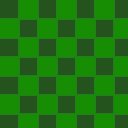
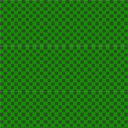
マップが無限になった

diff --git a/Solution/App/AppStage.cpp b/Solution/App/AppStage.cpp
@@ -26,6 +26,8 @@ void AppStage::update( ) {
 
 void AppStage::draw( ) const {
 	drawModel( );
+	drawEarth( );
+	drawWall( );
 }
 
 void AppStage::load( int stage_num ) {
@@ -150,6 +152,20 @@ Vector AppStage::adjustCollisionToWall( Vector pos, Vector vec, const double rad
 
 	double x = pos.x + vec.x;
 	double y = pos.y + vec.y;
+	if ( x < 0 ) {
+		x += STAGE_WIDTH_NUM * WORLD_SCALE;
+	}
+	if ( x > STAGE_WIDTH_NUM * WORLD_SCALE ) {
+		x -= STAGE_WIDTH_NUM * WORLD_SCALE;
+	}
+	if ( y < 0 ) {
+		y += STAGE_HEIGHT_NUM * WORLD_SCALE;
+
+	}
+	if ( y > STAGE_HEIGHT_NUM * WORLD_SCALE ) {
+		y -= STAGE_HEIGHT_NUM * WORLD_SCALE;
+
+	}
 	for ( int i = 0; i < 2; i++ ) {
 		double rad = radius;
 		if ( i == 0 ) {
@@ -164,13 +180,13 @@ Vector AppStage::adjustCollisionToWall( Vector pos, Vector vec, const double rad
 		int tmp_y = (int)( pos.y + vec.y + dir.y );
 		int idx = tmp_x + tmp_y * STAGE_WIDTH_NUM * 2;
 		if ( idx_x < 0 || idx_x >= STAGE_WIDTH_NUM * 2 * STAGE_HEIGHT_NUM * 2 ) {
-				return Vector( );
+				return result;
 		}
 		if ( idx_y < 0 || idx_y >= STAGE_WIDTH_NUM * 2 * STAGE_HEIGHT_NUM * 2 ) {
-				return Vector( );
+				return result;
 		}
 		if ( idx < 0 || idx >= STAGE_WIDTH_NUM * 2 * STAGE_HEIGHT_NUM * 2 ) {
-				return Vector( );
+				return result;
 		}
 		switch ( _map_data[ idx_x ] ) {
 		case 1:
@@ -311,19 +327,21 @@ void AppStage::loadMapData( ) {
 			int tmp_x = x * 2 + j % 2;
 			int tmp_y = y * 2 + j / 2;
 			int map_idx = tmp_x % ( STAGE_WIDTH_NUM * 2 ) + tmp_y * STAGE_WIDTH_NUM * 2;
-			if ( x + OFFSET_X[ j ] < 0 ||
-				 x + OFFSET_X[ j ] >= STAGE_WIDTH_NUM ) {
-				_map_data[ map_idx ] = 1;
-				continue;
-			}
-			if ( y + OFFSET_Y[ j ] < 0 ||
-				 y + OFFSET_Y[ j ] >= STAGE_HEIGHT_NUM ) {
-				_map_data[ map_idx ] = 1;
-				continue;
-			}
-
 			int idx0 = i + OFFSET_X[ j ];
 			int idx1 = i + OFFSET_Y[ j ] * STAGE_WIDTH_NUM;
+			if ( x + OFFSET_X[ j ] < 0 ) {
+				idx0 += STAGE_WIDTH_NUM;
+			}
+			if ( x + OFFSET_X[ j ] >= STAGE_WIDTH_NUM ) {
+				idx0 -= STAGE_WIDTH_NUM;
+			}
+			if ( y + OFFSET_Y[ j ] < 0 ) {
+				idx1 += STAGE_WIDTH_NUM * STAGE_HEIGHT_NUM;
+			}
+			if ( y + OFFSET_Y[ j ] >= STAGE_HEIGHT_NUM ) {
+				idx1 -= STAGE_WIDTH_NUM * STAGE_HEIGHT_NUM;
+			}
+
 
 			if ( type == 1 ) {
 				_map_data[ map_idx ] = 1;
@@ -369,4 +387,50 @@ int AppStage::getStationNum( ) const {
 
 std::list< CrystalPtr > AppStage::getCrystalList( ) const {
 	return _crystals;
+}
+
+void AppStage::drawEarth( ) const {
+	DrawerPtr drawer = Drawer::getTask( );
+	Vector pos[ 9 ] = {
+		Vector( 0, 0, 0 ),
+		Vector( STAGE_WIDTH_NUM * WORLD_SCALE, 0, 0 ),
+		Vector( STAGE_WIDTH_NUM * WORLD_SCALE, STAGE_HEIGHT_NUM * WORLD_SCALE, 0 ),
+		Vector( STAGE_WIDTH_NUM * WORLD_SCALE, -STAGE_HEIGHT_NUM * WORLD_SCALE, 0 ),
+		Vector( -STAGE_WIDTH_NUM * WORLD_SCALE, 0, 0 ),
+		Vector( -STAGE_WIDTH_NUM * WORLD_SCALE, STAGE_HEIGHT_NUM * WORLD_SCALE, 0 ),
+		Vector( -STAGE_WIDTH_NUM * WORLD_SCALE, -STAGE_HEIGHT_NUM * WORLD_SCALE, 0 ),
+		Vector( 0,  STAGE_HEIGHT_NUM * WORLD_SCALE, 0 ),
+		Vector( 0,  -STAGE_HEIGHT_NUM * WORLD_SCALE, 0 ),
+	};
+	for ( int i = 0; i < 9; i++ ) {
+		int x = i % STAGE_WIDTH_NUM;
+		int y = i / STAGE_WIDTH_NUM;
+		Vector adjust_pos = Vector( WORLD_SCALE + WORLD_SCALE / 2, WORLD_SCALE + WORLD_SCALE / 3 );
+		drawer->setModelMDL( Drawer::ModelMDL( pos[ i ] + adjust_pos, MDL_EARTH ) );
+	}
+}
+
+void AppStage::drawWall( ) const {
+	Vector pos[ 9 ] = {
+		Vector( 0, 0, 0 ),
+		Vector( STAGE_WIDTH_NUM * WORLD_SCALE, 0, 0 ),
+		Vector( STAGE_WIDTH_NUM * WORLD_SCALE, STAGE_HEIGHT_NUM * WORLD_SCALE, 0 ),
+		Vector( STAGE_WIDTH_NUM * WORLD_SCALE, -STAGE_HEIGHT_NUM * WORLD_SCALE, 0 ),
+		Vector( -STAGE_WIDTH_NUM * WORLD_SCALE, 0, 0 ),
+		Vector( -STAGE_WIDTH_NUM * WORLD_SCALE, STAGE_HEIGHT_NUM * WORLD_SCALE, 0 ),
+		Vector( -STAGE_WIDTH_NUM * WORLD_SCALE, -STAGE_HEIGHT_NUM * WORLD_SCALE, 0 ),
+		Vector( 0,  STAGE_HEIGHT_NUM * WORLD_SCALE, 0 ),
+		Vector( 0,  -STAGE_HEIGHT_NUM * WORLD_SCALE, 0 ),
+	};
+	DrawerPtr drawer = Drawer::getTask( );
+	std::vector< Drawer::ModelMDL > walls = getWalls( );
+	std::vector< Drawer::ModelMDL >::const_iterator ite = walls.begin( );
+	while ( ite != walls.end( ) ) {
+		Drawer::ModelMDL model = (*ite);
+		for ( int i = 0; i < 9; i++ ) {
+			model.pos += pos[ i ];
+			drawer->setModelMDL( model );
+		}
+		ite++;
+	}
 }

diff --git a/Solution/Common/Stage.cpp b/Solution/Common/Stage.cpp
@@ -13,13 +13,8 @@ Stage::Stage( ) {
 Stage::~Stage( ) {
 }
 
-void Stage::update( ) {
-}
-
 void Stage::drawModel( ) const {
 	drawBackground( );
-	drawEarth( );
-	drawWall( );
 	drawCrystal( );
 	drawStation( );
 }
@@ -55,22 +50,6 @@ void Stage::drawBackground( ) const {
 	drawer->setModelMDL( Drawer::ModelMDL( Vector( ), MDL_BG ) );
 }
 
-void Stage::drawEarth( ) const {
-	DrawerPtr drawer = Drawer::getTask( );
-	for ( int i = 0; i < STAGE_WIDTH_NUM * STAGE_HEIGHT_NUM; i++ ) {
-		drawer->setModelMDL( _earth[ i ] );
-	}
-}
-
-void Stage::drawWall( ) const {
-	DrawerPtr drawer = Drawer::getTask( );
-	std::vector< Drawer::ModelMDL >::const_iterator ite = _walls.begin( );
-	while ( ite != _walls.end( ) ) {
-		drawer->setModelMDL( (*ite) );
-		ite++;
-	}
-}
-
 void Stage::drawCrystal( ) const {
 }
 
@@ -84,16 +63,6 @@ void Stage::drawStation( ) const {
 			Drawer::ModelMDL model( Vector( x, y, 0 ), mdl );
 			drawer->setModelMDL( model );
 		}
-	}
-}
-
-void Stage::loadEarth( ) {
-	for ( int i = 0; i < STAGE_WIDTH_NUM * STAGE_HEIGHT_NUM; i++ ) {
-		int x = i % STAGE_WIDTH_NUM;
-		int y = i / STAGE_WIDTH_NUM;
-		Vector pos( x * WORLD_SCALE + WORLD_SCALE / 2, y * WORLD_SCALE + WORLD_SCALE / 2, 0 );
-		Vector adjust_pos = Vector( WORLD_SCALE + WORLD_SCALE / 2, WORLD_SCALE + WORLD_SCALE / 3 );
-		_earth[ i ] = Drawer::ModelMDL( pos + adjust_pos, MDL_EARTH );
 	}
 }
 
@@ -120,7 +89,17 @@ void Stage::loadWall( ) {
 		Vector( 0, 0 ),
 		Vector( -WORLD_SCALE / 8, -WORLD_SCALE / 2 )
 	};
-	_walls.clear( );
+	Vector copy_pos[ 9 ] = {
+		Vector( 0, 0, 0 ),
+		Vector( STAGE_WIDTH_NUM * WORLD_SCALE, 0, 0 ),
+		Vector( STAGE_WIDTH_NUM * WORLD_SCALE, STAGE_HEIGHT_NUM * WORLD_SCALE, 0 ),
+		Vector( STAGE_WIDTH_NUM * WORLD_SCALE, -STAGE_HEIGHT_NUM * WORLD_SCALE, 0 ),
+		Vector( -STAGE_WIDTH_NUM * WORLD_SCALE, 0, 0 ),
+		Vector( -STAGE_WIDTH_NUM * WORLD_SCALE, STAGE_HEIGHT_NUM * WORLD_SCALE, 0 ),
+		Vector( -STAGE_WIDTH_NUM * WORLD_SCALE, -STAGE_HEIGHT_NUM * WORLD_SCALE, 0 ),
+		Vector( 0,  STAGE_HEIGHT_NUM * WORLD_SCALE, 0 ),
+		Vector( 0,  -STAGE_HEIGHT_NUM * WORLD_SCALE, 0 ),
+	};
 
 	for ( int i = 0; i < 16; i++ ) {
 		int tmp = 1;
@@ -220,7 +199,6 @@ bool Stage::isFinished( ) const {
 void Stage::reset( ) {
 	_phase = -1;
 	_finished = false;
-	loadEarth( );
 	loadWall( );
 	loadPhase( );
 }
@@ -254,4 +232,9 @@ void Stage::debug( ) {
 
 int Stage::getMaxStationNum( ) const {
 	return _max_station;
+}
+
+
+std::vector< Drawer::ModelMDL > Stage::getWalls( ) const {
+	return _walls;
 }

diff --git a/Solution/App/SceneStage.cpp b/Solution/App/SceneStage.cpp
@@ -49,9 +49,10 @@ _state( STATE_NORMAL ) {
 	
 	Matrix roomba_size = Matrix::makeTransformScaling( Vector( WORLD_SCALE * ROOMBA_SCALE, WORLD_SCALE * ROOMBA_SCALE, WORLD_SCALE * ROOMBA_SCALE ) );
 	drawer->loadMDLModel( MDL_BALL, "Model/Roomba/roomba.mdl", "Model/Roomba/texture.jpg", roomba_size );
-	Matrix stage_size = Matrix::makeTransformScaling( Vector( WORLD_SCALE / STAGE_MODEL_SIZE, WORLD_SCALE / STAGE_MODEL_SIZE, WORLD_SCALE / STAGE_MODEL_SIZE ) );
 	
-	drawer->loadMDLModel( MDL_EARTH, "Model/Stage/earth.mdl", "Model/Stage/earth.jpg", stage_size );
+	Matrix earth_size = Matrix::makeTransformScaling( Vector( WORLD_SCALE / STAGE_MODEL_SIZE * STAGE_WIDTH_NUM, WORLD_SCALE / STAGE_MODEL_SIZE * STAGE_HEIGHT_NUM, WORLD_SCALE / STAGE_MODEL_SIZE ) );
+	drawer->loadMDLModel( MDL_EARTH, "Model/Stage/earth.mdl", "Model/Stage/earth.jpg", earth_size );
+	Matrix stage_size = Matrix::makeTransformScaling( Vector( WORLD_SCALE / STAGE_MODEL_SIZE, WORLD_SCALE / STAGE_MODEL_SIZE, WORLD_SCALE / STAGE_MODEL_SIZE ) );
 
 	drawer->loadMDLModel( MDL_WALL_0_0 , "Model/Stage/0_0.mdl" , "Model/Stage/wall.jpg", stage_size );
 	drawer->loadMDLModel( MDL_WALL_0_1 , "Model/Stage/0_1.mdl" , "Model/Stage/wall.jpg", stage_size );
@@ -97,11 +98,11 @@ Scene::NEXT SceneStage::update( ) {
 		_roomba->update( _stage, _camera );
 		_stage->update( );
 		_camera->update( );
-		_timer->update( );
+		//_timer->update( );
 	
 		if ( _timer->isTimeOver( ) ) {
 			//_state = STATE_SELECT_RETRY;
-			//return NEXT_RETRY;
+			return NEXT_RETRY;
 		}
 		if ( _stage->isFinished( ) ) {
 			_state = STATE_GAME_CLEAR;

diff --git a/Solution/StageEditor/EditorStage.cpp b/Solution/StageEditor/EditorStage.cpp
@@ -81,6 +81,8 @@ void EditorStage::updateCursor( ) {
 
 void EditorStage::draw( ) const {
 	drawModel( );
+	drawEarth( );
+	drawWall( );
 	DrawerPtr drawer = Drawer::getTask( );
 	Vector cursor_pos( _cursor_x * WORLD_SCALE + WORLD_SCALE / 2, _cursor_y * WORLD_SCALE  + WORLD_SCALE / 4 );
 	drawer->setModelMDL( Drawer::ModelMDL( cursor_pos, MDL_CURSOR ) );
@@ -287,5 +289,21 @@ void EditorStage::updateMode( ) {
 	}
 	if ( keyboard->isPushKey( "C" ) ) {
 		_mode = EDIT_MODE_STATION;
+	}
+}
+
+void EditorStage::drawEarth( ) const {
+	Vector adjust_pos = Vector( WORLD_SCALE + WORLD_SCALE / 2, WORLD_SCALE + WORLD_SCALE / 3 );
+	DrawerPtr drawer = Drawer::getTask( );
+	drawer->setModelMDL( Drawer::ModelMDL( adjust_pos, MDL_EARTH ) );
+}
+
+void EditorStage::drawWall( ) const {
+	DrawerPtr drawer = Drawer::getTask( );
+	std::vector< Drawer::ModelMDL > walls = getWalls( );
+	std::vector< Drawer::ModelMDL >::const_iterator ite = walls.begin( );
+	while ( ite != walls.end( ) ) {
+		drawer->setModelMDL( (*ite) );
+		ite++;
 	}
 }

diff --git a/Solution/App/Crystal.cpp b/Solution/App/Crystal.cpp
@@ -48,6 +48,19 @@ void Crystal::update( AppStagePtr stage ) {
 		_vec = _vec.normalize( ) * MAX_SPEED;
 	}
 	_pos += _vec;
+
+	if ( _pos.x < 0  ) {
+		_pos.x += STAGE_WIDTH_NUM * WORLD_SCALE;
+	}
+	if ( _pos.x > STAGE_WIDTH_NUM * WORLD_SCALE - 1 ) {
+		_pos.x -= STAGE_WIDTH_NUM * WORLD_SCALE;
+	}
+	if ( _pos.y < 0  ) {
+		_pos.y += STAGE_HEIGHT_NUM * WORLD_SCALE;
+	}
+	if ( _pos.y > STAGE_HEIGHT_NUM * WORLD_SCALE - 1  ) {
+		_pos.y -= STAGE_HEIGHT_NUM * WORLD_SCALE;
+	}
 }
 
 bool Crystal::isHitting( Vector pos0, Vector pos1 ) {

diff --git a/Solution/Common/Stage.h b/Solution/Common/Stage.h
@@ -34,14 +34,14 @@ protected:
 	void drawModel( ) const;
 	void load( int stage_num );
 	virtual void drawCrystal( ) const;
-	void loadEarth( );
 	void loadWall( );
 	void loadPhase( );
 	virtual void loadCrystal( );
+	std::vector< Drawer::ModelMDL > getWalls( ) const;
 private:
+	virtual void drawEarth( ) const = 0;
+	virtual void drawWall( ) const = 0;
 	void drawBackground( ) const;
-	void drawEarth( ) const;
-	void drawWall( ) const;
 	void drawStation( ) const;
 private:
 	std::vector< Drawer::ModelMDL > _walls;

diff --git a/Solution/App/AppStage.h b/Solution/App/AppStage.h
@@ -20,6 +20,8 @@ public:
 	std::list< CrystalPtr > getCrystalList( ) const;
 private:
 	void updateCrystal( );
+	void drawEarth( ) const;
+	void drawWall( ) const;
 	void drawCrystal( ) const;
 	void drawCollisionLine( ) const;
 	void loadCrystal( );

diff --git a/Solution/Common/Camera.h b/Solution/Common/Camera.h
@@ -7,7 +7,7 @@ public:
 	Camera( Vector pos, Vector target );
 	virtual ~Camera( );
 public:
-	virtual void update( );
+	void update( );
 	Vector getPos( ) const;
 	Vector getDir( ) const;
 	Vector getTarget( ) const;

diff --git a/Solution/App/Ball.h b/Solution/App/Ball.h
@@ -14,6 +14,7 @@ public:
 	void draw( ) const;
 	void reset( const Vector& pos );
 	void setForce( const Vector& force );
+	void setPos( Vector pos );
 	Vector getPos( ) const;
 	Vector getVec( ) const;
 private:

diff --git a/Solution/StageEditor/EditorStage.h b/Solution/StageEditor/EditorStage.h
@@ -27,6 +27,8 @@ private:
 	void updateCursor( );
 	void updateMode( );
 	void drawCrystal( ) const;
+	void drawEarth( ) const;
+	void drawWall( ) const;
 private:
 	int _cursor_x;
 	int _cursor_y;
